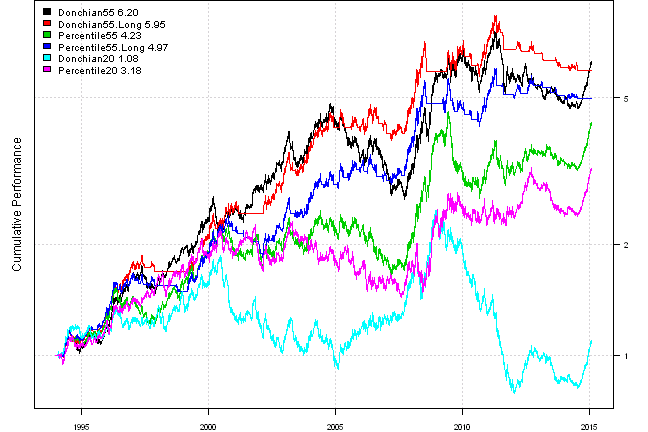
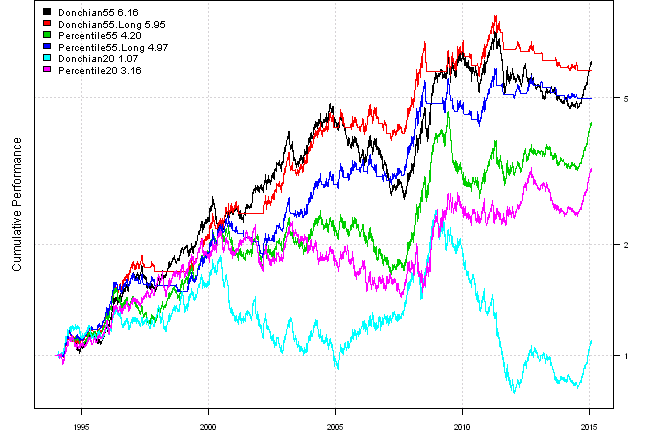
update blog post

Changed region(s): [[0.7407, 0.6921, 0.7716, 0.7222], [0.7407, 0.4815, 0.7716, 0.5116], [0.7407, 0.0903, 0.7716, 0.1204]]

diff --git a/_posts/2015-02-02-Channel-Breakout.md b/_posts/2015-02-02-Channel-Breakout.md
@@ -201,16 +201,16 @@ print(plotbt.strategy.sidebyside(models, make.plot=F, return.table=T))
 
 |           |Donchian55        |Donchian55.Long   |Percentile55      |Percentile55.Long |Donchian20        |Percentile20      |
 |:----------|:-----------------|:-----------------|:-----------------|:-----------------|:-----------------|:-----------------|
-|Period     |Jan1994 - Jan2015 |Jan1994 - Jan2015 |Jan1994 - Jan2015 |Jan1994 - Jan2015 |Jan1994 - Jan2015 |Jan1994 - Jan2015 |
-|Cagr       |9.04              |8.82              |7.08              |7.9               |0.37              |5.64              |
-|Sharpe     |0.64              |0.73              |0.52              |0.68              |0.1               |0.42              |
+|Period     |Jan1994 - Feb2015 |Jan1994 - Feb2015 |Jan1994 - Feb2015 |Jan1994 - Feb2015 |Jan1994 - Feb2015 |Jan1994 - Feb2015 |
+|Cagr       |9                 |8.82              |7.04              |7.89              |0.34              |5.6               |
+|Sharpe     |0.63              |0.73              |0.51              |0.68              |0.1               |0.42              |
 |DVR        |0.53              |0.67              |0.42              |0.63              |0                 |0.3               |
 |Volatility |15.51             |12.8              |15.69             |12.36             |16.09             |16.16             |
 |MaxDD      |-44.97            |-29.1             |-42.09            |-26.25            |-68.3             |-37.87            |
 |AvgDD      |-3.13             |-2.8              |-3.88             |-3.05             |-4.75             |-3.55             |
 |VaR        |-1.54             |-1.29             |-1.57             |-1.25             |-1.64             |-1.63             |
 |CVaR       |-2.16             |-1.94             |-2.19             |-1.9              |-2.3              |-2.28             |
-|Exposure   |98.62             |63.38             |98.79             |59.38             |99.62             |99.42             |
+|Exposure   |98.62             |63.37             |98.79             |59.37             |99.62             |99.42             |
     
 
 Unfortunately we cannot replicate results from original [source](https://cssanalytics.wordpress.com/2015/01/21/percentile-channels-a-new-twist-on-a-trend-following-favorite/)
@@ -342,6 +342,47 @@ weight$CASH = 1 - rowSums(weight, na.rm=T)
 data$weight[] = NA
   data$weight[period.ends,] = ifna(weight[period.ends,], 0)
 models$strategy.rp = bt.run.share(data, clean.signal=F, trade.summary=T, silent=T)
+{% endhighlight %}
+
+Let's add another benchmark, for comparison we will use
+the [Quantitative Approach To Tactical Asset Allocation Strategy(QATAA) by Mebane T. Faber](http://mebfaber.com/timing-model/)
+
+
+
+{% highlight r %}
+#*****************************************************************
+#The [Quantitative Approach To Tactical Asset Allocation Strategy(QATAA) by Mebane T. Faber](http://mebfaber.com/timing-model/)
+#[SSRN paper](http://papers.ssrn.com/sol3/papers.cfm?abstract_id=962461)
+#******************************************************************
+# compute 10 month moving average
+sma = bt.apply.matrix(prices, SMA, 200)
+
+# go to cash if prices falls below 10 month moving average
+go2cash = prices < sma
+  go2cash = ifna(go2cash, T)
+
+# equal weight target allocation
+target.allocation = ntop(prices,n)
+  
+# If asset is above it's 10 month moving average it gets allocation
+qt.weight = iif(go2cash, 0, target.allocation)
+  weight = qt.weight
+
+# otherwise, it's weight is allocated to cash
+weight$CASH = 1 - rowSums(weight)
+
+data$weight[] = NA
+  data$weight[period.ends,] = weight[period.ends,]
+models$QATAA.EW = bt.run.share(data, clean.signal=F, trade.summary=T, silent=T)
+
+# same, but risk-parity
+weight = qt.weight * rp.weight
+weight = rowSums(qt.weight, na.rm=T) * weight / rowSums(weight, na.rm=T)
+weight$CASH = 1 - rowSums(weight, na.rm=T)
+
+data$weight[] = NA
+  data$weight[period.ends,] = ifna(weight[period.ends,], 0)
+models$QATAA.RP = bt.run.share(data, clean.signal=F, trade.summary=T, silent=T)
 
 #*****************************************************************
 # Report
@@ -350,7 +391,7 @@ plotbt(models, plotX = T, log = 'y', LeftMargin = 3, main = NULL)
 	mtext('Cumulative Performance', side = 2, line = 1)
 {% endhighlight %}
 
-![plot of chunk plot-3](/public/images/2015-02-02-Channel-Breakout/plot-3-2.png) 
+![plot of chunk plot-4](/public/images/2015-02-02-Channel-Breakout/plot-4-1.png) 
 
 {% highlight r %}
 print(plotbt.strategy.sidebyside(models, make.plot=F, return.table=T))
@@ -358,18 +399,18 @@ print(plotbt.strategy.sidebyside(models, make.plot=F, return.table=T))
 
 
 
-|           |ew                |rp                |strategy.ew       |strategy.rp       |
-|:----------|:-----------------|:-----------------|:-----------------|:-----------------|
-|Period     |May1996 - Jan2015 |May1996 - Jan2015 |May1996 - Jan2015 |May1996 - Jan2015 |
-|Cagr       |8.15              |7.55              |9.53              |8.37              |
-|Sharpe     |0.68              |0.84              |1.38              |1.56              |
-|DVR        |0.63              |0.78              |1.33              |1.53              |
-|Volatility |12.74             |9.18              |6.81              |5.26              |
-|MaxDD      |-47.38            |-40.01            |-11.53            |-7.98             |
-|AvgDD      |-1.43             |-1.18             |-0.93             |-0.82             |
-|VaR        |-1.07             |-0.76             |-0.64             |-0.5              |
-|CVaR       |-1.93             |-1.34             |-0.99             |-0.76             |
-|Exposure   |99.7              |99.28             |99.7              |99.7              |
+|           |ew                |rp                |strategy.ew       |strategy.rp       |QATAA.EW          |QATAA.RP          |
+|:----------|:-----------------|:-----------------|:-----------------|:-----------------|:-----------------|:-----------------|
+|Period     |May1996 - Feb2015 |May1996 - Feb2015 |May1996 - Feb2015 |May1996 - Feb2015 |May1996 - Feb2015 |May1996 - Feb2015 |
+|Cagr       |8.18              |7.56              |9.53              |8.37              |10.21             |9.07              |
+|Sharpe     |0.68              |0.84              |1.38              |1.56              |1.36              |1.54              |
+|DVR        |0.63              |0.78              |1.33              |1.53              |1.32              |1.51              |
+|Volatility |12.74             |9.18              |6.81              |5.26              |7.38              |5.76              |
+|MaxDD      |-47.38            |-40.01            |-11.53            |-7.98             |-12.47            |-8.77             |
+|AvgDD      |-1.43             |-1.18             |-0.93             |-0.82             |-1.01             |-0.85             |
+|VaR        |-1.07             |-0.76             |-0.64             |-0.5              |-0.7              |-0.56             |
+|CVaR       |-1.93             |-1.34             |-0.99             |-0.76             |-1.08             |-0.83             |
+|Exposure   |99.7              |99.28             |99.7              |99.7              |99.7              |99.7              |
     
 
 
@@ -395,7 +436,7 @@ for(m in names(models)) {
     
 
 
-![plot of chunk plot-3](/public/images/2015-02-02-Channel-Breakout/plot-3-3.png) 
+![plot of chunk plot-4](/public/images/2015-02-02-Channel-Breakout/plot-4-2.png) 
 
 Last Trades:
     
@@ -413,7 +454,7 @@ Current Allocation:
 
 |           | EQ| RE| CORP.FI| COM| CASH|
 |:----------|--:|--:|-------:|---:|----:|
-|2015-01-30 | 25| 27|      26|  23|    0|
+|2015-02-02 | 25| 25|      25|  25|    0|
     
 
 
@@ -423,7 +464,7 @@ Current Allocation:
     
 
 
-![plot of chunk plot-3](/public/images/2015-02-02-Channel-Breakout/plot-3-4.png) 
+![plot of chunk plot-4](/public/images/2015-02-02-Channel-Breakout/plot-4-3.png) 
 
 Last Trades:
     
@@ -441,7 +482,7 @@ Current Allocation:
 
 |           | EQ| RE| CORP.FI| COM| CASH|
 |:----------|--:|--:|-------:|---:|----:|
-|2015-01-30 | 14| 17|      55|  14|    0|
+|2015-02-02 | 16| 20|      49|  14|    0|
     
 
 
@@ -451,7 +492,7 @@ Current Allocation:
     
 
 
-![plot of chunk plot-3](/public/images/2015-02-02-Channel-Breakout/plot-3-5.png) 
+![plot of chunk plot-4](/public/images/2015-02-02-Channel-Breakout/plot-4-4.png) 
 
 Last Trades:
     
@@ -461,10 +502,6 @@ Last Trades:
 
 |strategy.ew |weight |entry.date |exit.date  |nhold |entry.price |exit.price |return |
 |:-----------|:------|:----------|:----------|:-----|:-----------|:----------|:------|
-|EQ          | 25.0  |2014-08-29 |2014-09-30 |32    |102.87      |100.71     |-0.52  |
-|RE          | 25.0  |2014-08-29 |2014-09-30 |32    | 72.77      | 68.49     |-1.47  |
-|CORP.FI     | 25.0  |2014-08-29 |2014-09-30 |32    |118.91      |116.91     |-0.42  |
-|CASH        | 25.0  |2014-08-29 |2014-09-30 |32    | 84.48      | 84.42     |-0.02  |
 |EQ          | 18.8  |2014-09-30 |2014-10-31 |31    |100.71      |103.47     | 0.51  |
 |RE          | 18.8  |2014-09-30 |2014-10-31 |31    | 68.49      | 74.21     | 1.57  |
 |CORP.FI     | 18.8  |2014-09-30 |2014-10-31 |31    |116.91      |118.35     | 0.23  |
@@ -481,6 +518,10 @@ Last Trades:
 |RE          | 25.0  |2014-12-31 |2015-01-30 |30    | 76.84      | 81.23     | 1.43  |
 |CORP.FI     | 25.0  |2014-12-31 |2015-01-30 |30    |119.41      |123.89     | 0.94  |
 |CASH        | 25.0  |2014-12-31 |2015-01-30 |30    | 84.45      | 84.98     | 0.16  |
+|EQ          | 18.8  |2015-01-30 |2015-02-02 | 3    |103.10      |104.26     | 0.21  |
+|RE          | 25.0  |2015-01-30 |2015-02-02 | 3    | 81.23      | 80.97     |-0.08  |
+|CORP.FI     | 25.0  |2015-01-30 |2015-02-02 | 3    |123.89      |123.67     |-0.04  |
+|CASH        | 31.2  |2015-01-30 |2015-02-02 | 3    | 84.98      | 84.92     |-0.02  |
     
 
 
@@ -494,7 +535,7 @@ Current Allocation:
 
 |           | EQ| RE| CORP.FI| COM| CASH|
 |:----------|--:|--:|-------:|---:|----:|
-|2015-01-30 | 24| 26|      25|   0|   25|
+|2015-02-02 | 19| 25|      25|   0|   31|
     
 
 
@@ -504,7 +545,7 @@ Current Allocation:
     
 
 
-![plot of chunk plot-3](/public/images/2015-02-02-Channel-Breakout/plot-3-6.png) 
+![plot of chunk plot-4](/public/images/2015-02-02-Channel-Breakout/plot-4-5.png) 
 
 Last Trades:
     
@@ -514,10 +555,6 @@ Last Trades:
 
 |strategy.rp |weight |entry.date |exit.date  |nhold |entry.price |exit.price |return |
 |:-----------|:------|:----------|:----------|:-----|:-----------|:----------|:------|
-|EQ          | 15.7  |2014-08-29 |2014-09-30 |32    |102.87      |100.71     |-0.33  |
-|RE          | 14.7  |2014-08-29 |2014-09-30 |32    | 72.77      | 68.49     |-0.86  |
-|CORP.FI     | 44.6  |2014-08-29 |2014-09-30 |32    |118.91      |116.91     |-0.75  |
-|CASH        | 25.0  |2014-08-29 |2014-09-30 |32    | 84.48      | 84.42     |-0.02  |
 |EQ          | 13.8  |2014-09-30 |2014-10-31 |31    |100.71      |103.47     | 0.38  |
 |RE          | 10.0  |2014-09-30 |2014-10-31 |31    | 68.49      | 74.21     | 0.83  |
 |CORP.FI     | 32.5  |2014-09-30 |2014-10-31 |31    |116.91      |118.35     | 0.40  |
@@ -534,6 +571,10 @@ Last Trades:
 |RE          | 14.5  |2014-12-31 |2015-01-30 |30    | 76.84      | 81.23     | 0.83  |
 |CORP.FI     | 47.8  |2014-12-31 |2015-01-30 |30    |119.41      |123.89     | 1.79  |
 |CASH        | 25.0  |2014-12-31 |2015-01-30 |30    | 84.45      | 84.98     | 0.16  |
+|EQ          | 10.0  |2015-01-30 |2015-02-02 | 3    |103.10      |104.26     | 0.11  |
+|RE          | 17.2  |2015-01-30 |2015-02-02 | 3    | 81.23      | 80.97     |-0.06  |
+|CORP.FI     | 41.5  |2015-01-30 |2015-02-02 | 3    |123.89      |123.67     |-0.07  |
+|CASH        | 31.2  |2015-01-30 |2015-02-02 | 3    | 84.98      | 84.92     |-0.02  |
     
 
 
@@ -547,7 +588,113 @@ Current Allocation:
 
 |           | EQ| RE| CORP.FI| COM| CASH|
 |:----------|--:|--:|-------:|---:|----:|
-|2015-01-30 | 12| 15|      48|   0|   25|
+|2015-02-02 | 10| 17|      41|   0|   31|
+    
+
+
+
+
+# QATAA.EW
+    
+
+
+![plot of chunk plot-4](/public/images/2015-02-02-Channel-Breakout/plot-4-6.png) 
+
+Last Trades:
+    
+
+
+
+
+|QATAA.EW |weight |entry.date |exit.date  |nhold |entry.price |exit.price |return |
+|:--------|:------|:----------|:----------|:-----|:-----------|:----------|:------|
+|EQ       | 25    |2014-09-30 |2014-10-31 |31    |100.71      |103.47     | 0.69  |
+|RE       | 25    |2014-09-30 |2014-10-31 |31    | 68.49      | 74.21     | 2.09  |
+|CORP.FI  | 25    |2014-09-30 |2014-10-31 |31    |116.91      |118.35     | 0.31  |
+|CASH     | 25    |2014-09-30 |2014-10-31 |31    | 84.42      | 84.64     | 0.07  |
+|EQ       | 25    |2014-10-31 |2014-11-28 |28    |103.47      |106.04     | 0.62  |
+|RE       | 25    |2014-10-31 |2014-11-28 |28    | 74.21      | 76.23     | 0.68  |
+|CORP.FI  | 25    |2014-10-31 |2014-11-28 |28    |118.35      |119.43     | 0.23  |
+|CASH     | 25    |2014-10-31 |2014-11-28 |28    | 84.64      | 84.73     | 0.03  |
+|EQ       | 25    |2014-11-28 |2014-12-31 |33    |106.04      |106.00     |-0.01  |
+|RE       | 25    |2014-11-28 |2014-12-31 |33    | 76.23      | 76.84     | 0.20  |
+|CORP.FI  | 25    |2014-11-28 |2014-12-31 |33    |119.43      |119.41     | 0.00  |
+|CASH     | 25    |2014-11-28 |2014-12-31 |33    | 84.73      | 84.45     |-0.08  |
+|EQ       | 25    |2014-12-31 |2015-01-30 |30    |106.00      |103.10     |-0.68  |
+|RE       | 25    |2014-12-31 |2015-01-30 |30    | 76.84      | 81.23     | 1.43  |
+|CORP.FI  | 25    |2014-12-31 |2015-01-30 |30    |119.41      |123.89     | 0.94  |
+|CASH     | 25    |2014-12-31 |2015-01-30 |30    | 84.45      | 84.98     | 0.16  |
+|EQ       | 25    |2015-01-30 |2015-02-02 | 3    |103.10      |104.26     | 0.28  |
+|RE       | 25    |2015-01-30 |2015-02-02 | 3    | 81.23      | 80.97     |-0.08  |
+|CORP.FI  | 25    |2015-01-30 |2015-02-02 | 3    |123.89      |123.67     |-0.04  |
+|CASH     | 25    |2015-01-30 |2015-02-02 | 3    | 84.98      | 84.92     |-0.02  |
+    
+
+
+
+
+Current Allocation:
+    
+
+
+
+
+|           | EQ| RE| CORP.FI| COM| CASH|
+|:----------|--:|--:|-------:|---:|----:|
+|2015-02-02 | 25| 25|      25|   0|   25|
+    
+
+
+
+
+# QATAA.RP
+    
+
+
+![plot of chunk plot-4](/public/images/2015-02-02-Channel-Breakout/plot-4-7.png) 
+
+Last Trades:
+    
+
+
+
+
+|QATAA.RP |weight |entry.date |exit.date  |nhold |entry.price |exit.price |return |
+|:--------|:------|:----------|:----------|:-----|:-----------|:----------|:------|
+|EQ       | 18.4  |2014-09-30 |2014-10-31 |31    |100.71      |103.47     | 0.50  |
+|RE       | 13.3  |2014-09-30 |2014-10-31 |31    | 68.49      | 74.21     | 1.11  |
+|CORP.FI  | 43.3  |2014-09-30 |2014-10-31 |31    |116.91      |118.35     | 0.53  |
+|CASH     | 25.0  |2014-09-30 |2014-10-31 |31    | 84.42      | 84.64     | 0.07  |
+|EQ       |  9.8  |2014-10-31 |2014-11-28 |28    |103.47      |106.04     | 0.24  |
+|RE       | 15.8  |2014-10-31 |2014-11-28 |28    | 74.21      | 76.23     | 0.43  |
+|CORP.FI  | 49.4  |2014-10-31 |2014-11-28 |28    |118.35      |119.43     | 0.45  |
+|CASH     | 25.0  |2014-10-31 |2014-11-28 |28    | 84.64      | 84.73     | 0.03  |
+|EQ       | 25.6  |2014-11-28 |2014-12-31 |33    |106.04      |106.00     |-0.01  |
+|RE       | 20.2  |2014-11-28 |2014-12-31 |33    | 76.23      | 76.84     | 0.16  |
+|CORP.FI  | 29.2  |2014-11-28 |2014-12-31 |33    |119.43      |119.41     | 0.00  |
+|CASH     | 25.0  |2014-11-28 |2014-12-31 |33    | 84.73      | 84.45     |-0.08  |
+|EQ       | 12.7  |2014-12-31 |2015-01-30 |30    |106.00      |103.10     |-0.35  |
+|RE       | 14.5  |2014-12-31 |2015-01-30 |30    | 76.84      | 81.23     | 0.83  |
+|CORP.FI  | 47.8  |2014-12-31 |2015-01-30 |30    |119.41      |123.89     | 1.79  |
+|CASH     | 25.0  |2014-12-31 |2015-01-30 |30    | 84.45      | 84.98     | 0.16  |
+|EQ       | 13.9  |2015-01-30 |2015-02-02 | 3    |103.10      |104.26     | 0.16  |
+|RE       | 17.9  |2015-01-30 |2015-02-02 | 3    | 81.23      | 80.97     |-0.06  |
+|CORP.FI  | 43.2  |2015-01-30 |2015-02-02 | 3    |123.89      |123.67     |-0.08  |
+|CASH     | 25.0  |2015-01-30 |2015-02-02 | 3    | 84.98      | 84.92     |-0.02  |
+    
+
+
+
+
+Current Allocation:
+    
+
+
+
+
+|           | EQ| RE| CORP.FI| COM| CASH|
+|:----------|--:|--:|-------:|---:|----:|
+|2015-02-02 | 14| 18|      43|   0|   25|
     
 
 Unfortunately we cannot match the numbers from original [source](https://cssanalytics.wordpress.com/2015/01/26/a-simple-tactical-asset-allocation-portfolio-with-percentile-channels/)
@@ -556,4 +703,4 @@ But overall, this concept is a very robust allocation framework.
 
 
 
-*(this report was produced on: 2015-02-02)*
+*(this report was produced on: 2015-02-03)*
